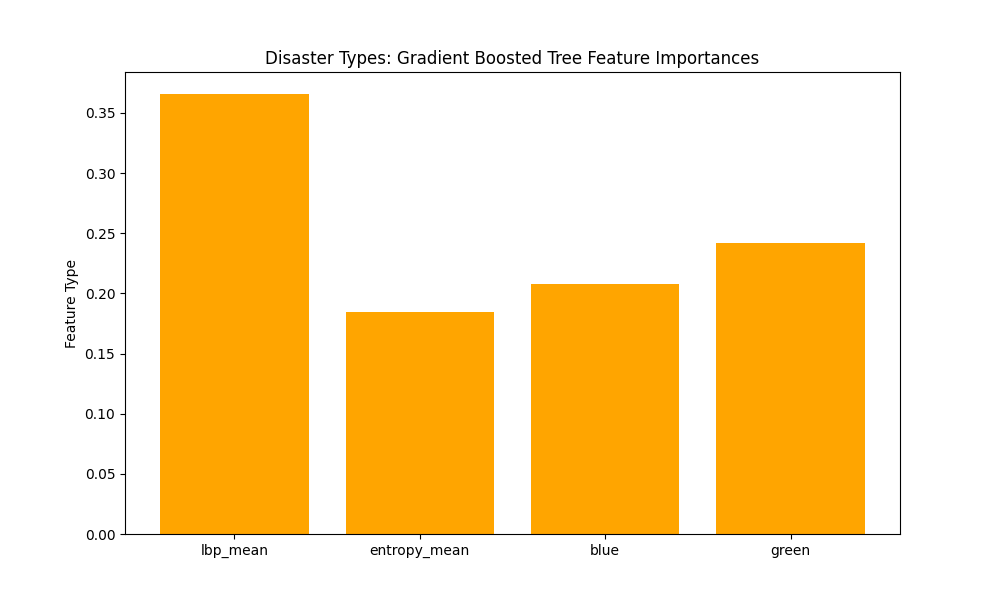
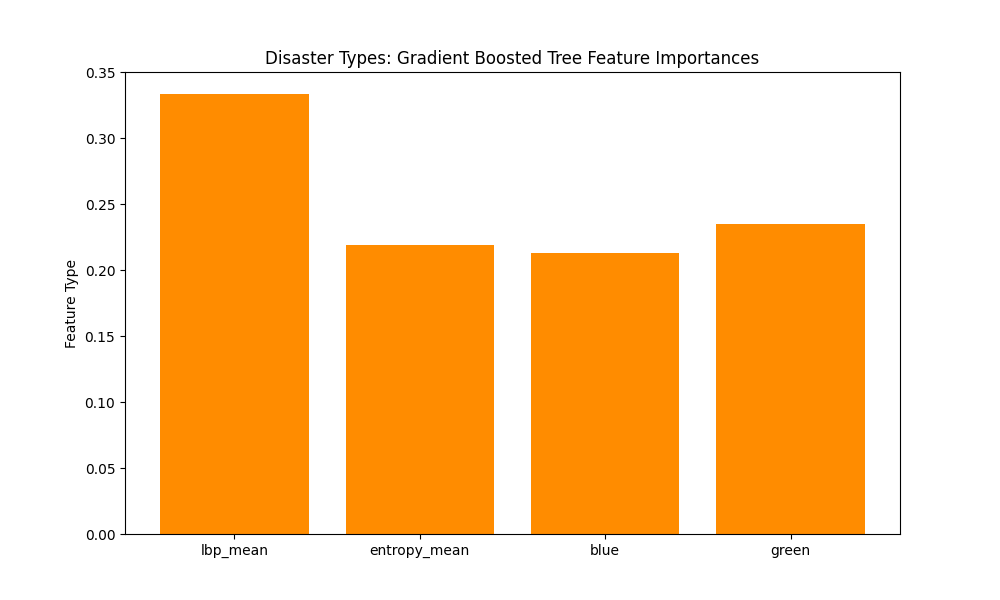
clean code

diff --git a/disaster_type_model.py b/disaster_type_model.py
@@ -2,7 +2,6 @@ import numpy as np
 from sklearn.model_selection import StratifiedKFold
 from sklearn.metrics import accuracy_score, confusion_matrix, f1_score
 from sklearn.ensemble import GradientBoostingClassifier
-from sklearn.decomposition import PCA
 import matplotlib.pyplot as plt
 from sklearn.metrics import ConfusionMatrixDisplay
 
@@ -11,7 +10,6 @@ lbp_mean = np.load("npy_files/lbp_mean_all.npy")
 entropy_mean = np.load("npy_files/entropy_mean_all.npy")
 blue = np.load("npy_files/mean_B.npy")
 green = np.load("npy_files/mean_G.npy")
-red = np.load("npy_files/mean_R.npy")
 
 features = ['lbp_mean', 'entropy_mean', 'blue', 'green']
 X = np.concatenate([ lbp_mean,  entropy_mean, blue, green], axis=1)
@@ -44,9 +42,15 @@ def run_model(X, Y, n):
     model = GradientBoostingClassifier(n_estimators=500, max_depth=3,min_samples_split=5, 
                                        min_samples_leaf=3, subsample=0.8, max_features='sqrt')
     mean_score, values, matrix = stratified_CV(X, Y, model, n_split= n, metric=f1_score)
-    print(f"K1 Score = {mean_score}")
-    print(f"Values = {values}")
 
+
+    print(f"\nK1 Score = {mean_score}")
+    print(f"K1 Values = {values}")
+
+
+    '''
+    Create Confusion Matrix
+    '''
     labels = [label_legend[y] for y in np.unique(Y)]
     disp = ConfusionMatrixDisplay(confusion_matrix=matrix, display_labels=labels)
     disp.plot(cmap="Oranges", values_format='d', xticks_rotation= 45)
@@ -55,7 +59,10 @@ def run_model(X, Y, n):
     plt.savefig("images/dType_confusion_matrix.png", format="png")
     plt.close()
 
-    plt.plot(np.arange(1, n+1), values, marker='o', color= 'orange')
+    '''
+    Create Per-Fold F1 Scores Figure
+    '''
+    plt.plot(np.arange(1, n+1), values, marker='o', color= 'darkorange')
     plt.xlabel("Fold")
     plt.ylabel("Weighted F1 Score")
     plt.title("Disaster Types: Per-Fold F1 Scores")
@@ -64,10 +71,12 @@ def run_model(X, Y, n):
     plt.savefig("images/dType_KFold.png", format="png")
     plt.close()
 
-
+    '''
+    Create Importances Figure
+    '''
     importances = model.feature_importances_
     plt.figure(figsize=(10,6))
-    plt.bar(range(len(importances)), importances, color="orange")
+    plt.bar(range(len(importances)), importances, color="darkorange")
     plt.xticks(range(len(importances)), features)
     plt.ylabel("Feature Importance")
     plt.ylabel("Feature Type")

diff --git a/disaster_label_model.py b/disaster_label_model.py
@@ -1,15 +1,9 @@
-#https://ds100.org/fa25/gradproject-cv/#milestone-4-project-report-first-draft-20---wednesday-november-19-2025
-
 import numpy as np
 from sklearn.model_selection import StratifiedKFold
 from sklearn.metrics import accuracy_score, confusion_matrix, f1_score
 from sklearn.ensemble import GradientBoostingClassifier
-from sklearn.decomposition import PCA
 import matplotlib.pyplot as plt
 from sklearn.metrics import ConfusionMatrixDisplay
-from sklearn.preprocessing import label_binarize
-from sklearn.metrics import roc_curve, auc
-
 
 
 gabor_mean = np.load("npy_files/gabor_mean_all.npy")
@@ -47,16 +41,25 @@ def run_model(X, Y, n):
     model = GradientBoostingClassifier(n_estimators=500, max_depth=3,min_samples_split=5, 
                                        min_samples_leaf=3, subsample=0.8, max_features='sqrt')
     mean_score, values, matrix = stratified_CV(X, Y, model, n_split= n, metric=f1_score)
-    print(f"K1 Score = {mean_score}")
-    print(f"Values = {values}")
+
+
+    print(f"\nK1 Score = {mean_score}")
+    print(f"K1 Values = {values}")
 
     
+    '''
+    Create Confusion Matrix
+    '''
     disp = ConfusionMatrixDisplay(confusion_matrix=matrix, display_labels=np.unique(Y))
     disp.plot(cmap=plt.cm.Blues)
     plt.title("Disaster Labels: Confusion Matrix for the Final Fold")
     plt.savefig("images/dLabel_confusion_matrix.png", format="png")
     plt.close()
 
+
+    '''
+    Create Per-Fold F1 Scores Figure
+    '''
     plt.plot(np.arange(1, n+1), values, marker='o')
     plt.xlabel("Fold")
     plt.ylabel("Weighted F1 Score")
@@ -67,6 +70,9 @@ def run_model(X, Y, n):
     plt.close()
 
 
+    '''
+    Create Importances Figure
+    '''
     importances = model.feature_importances_
     plt.figure(figsize=(10,6))
     plt.bar(range(len(importances)), importances)
